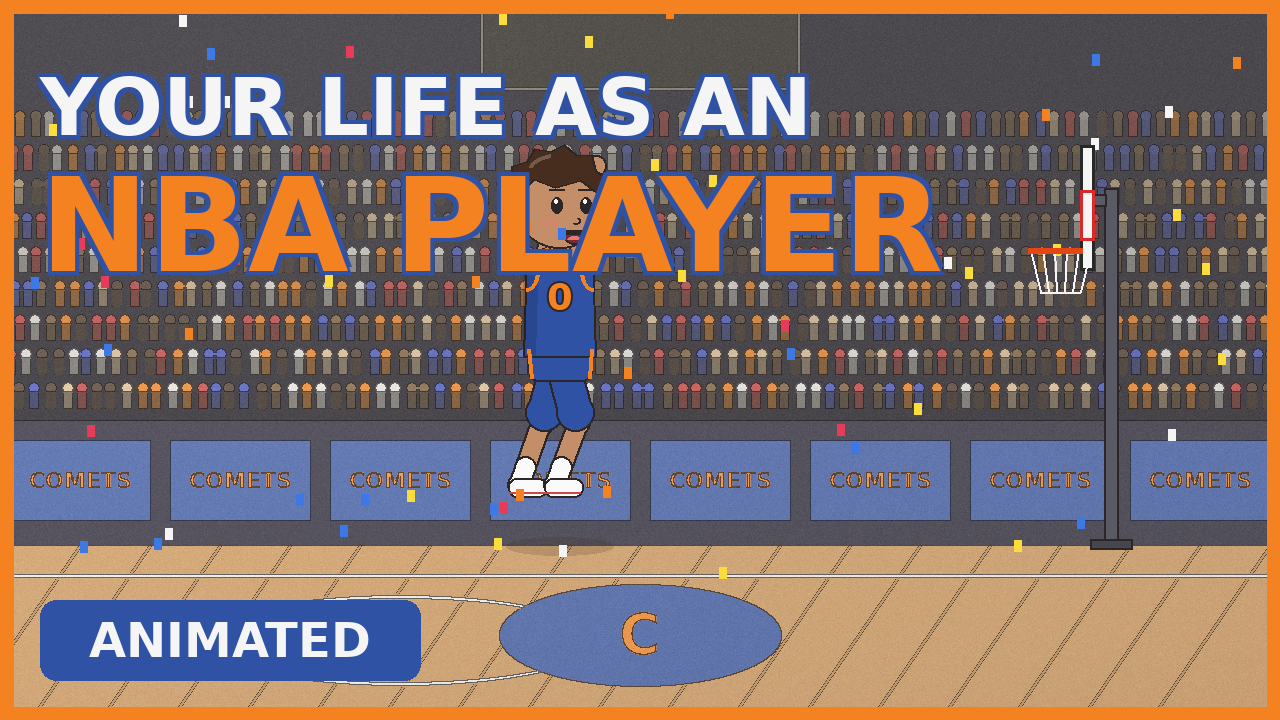
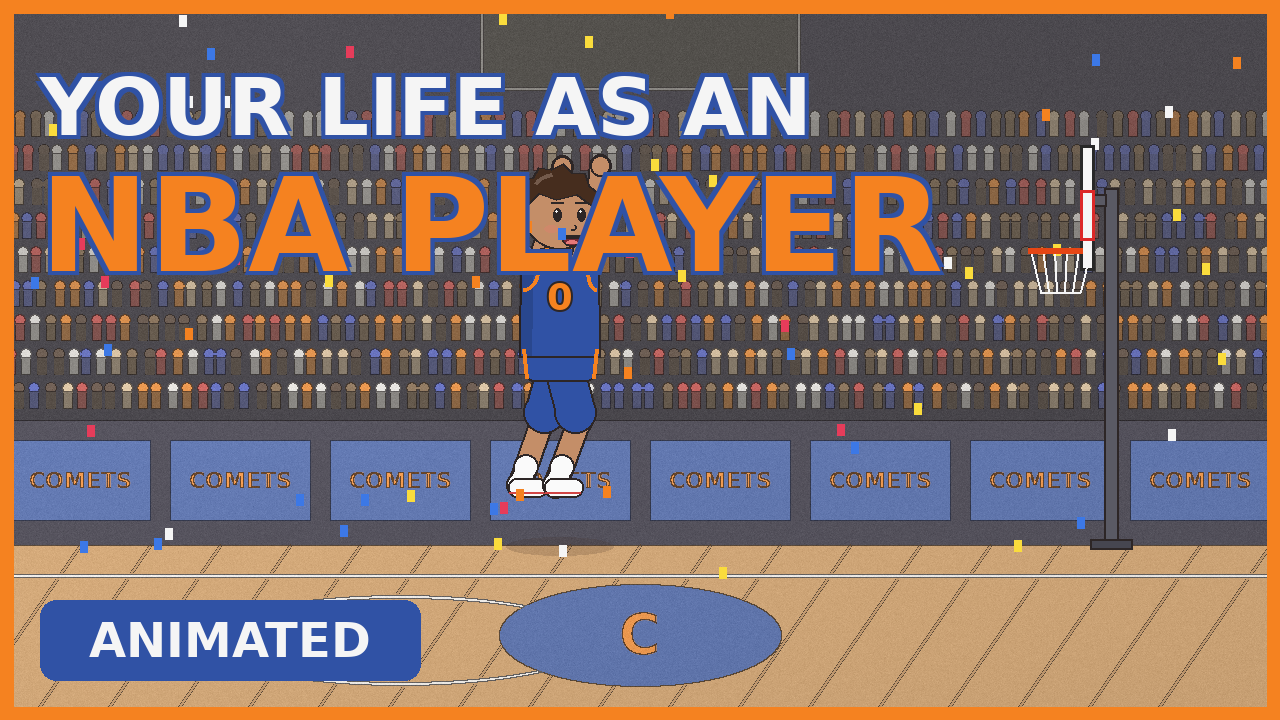
Tween between actions and rebalance head/body proportions
Claude-Session: https://claude.ai/code/session_01RuXReFvzsoakQSHGf4Mz6m

Changed region(s): [[0.4062, 0.3667, 0.4688, 0.6722], [0.4062, 0.1833, 0.5, 0.3361]]

diff --git a/nba-life-video/render.py b/nba-life-video/render.py
@@ -3,6 +3,7 @@
 Usage: python3 render.py [out_dir]
 Requires: espeak-ng + mbrola-us2, ffmpeg, Pillow, numpy.
 """
+import inspect
 import math
 import os
 import random
@@ -151,7 +152,38 @@ def hair_shape(d, hx, hy, r, s, f, color):
     d.polygon(pts, fill=color, outline=INK, width=2)
 
 
-def person(d, x, hip_y, s=1.0, outfit="comets", pose=None, facing=1, mouth=0.0,
+POSE_DEFAULT = dict(fu=15, ff=35, bu=-10, bf=-5, ft=5, fs=0, bt=-5, bs=0)
+TWEEN = None  # set by render_scene while blending one action into the next
+TWEEN_TIME = 0.7
+
+
+def person(d, *args, **kwargs):
+    """Draws a person; while TWEEN is active the first (main) person is blended between two actions."""
+    global TWEEN
+    tw = TWEEN
+    if tw is None or not tw["active"]:
+        return draw_person(d, *args, **kwargs)
+    tw["active"] = False
+    p = inspect.signature(draw_person).bind(d, *args, **kwargs)
+    p.apply_defaults()
+    p = dict(p.arguments)
+    pose = dict(POSE_DEFAULT)
+    pose.update(p["pose"] or {})
+    p["pose"] = pose
+    if tw["mode"] == "record":
+        tw["rec"] = p
+        return draw_person(**p)
+    a, k = tw["rec"], tw["k"]
+    if a is not None:
+        for key in ("x", "hip_y", "head_drop"):
+            p[key] = lerp(a[key], p[key], k)
+        p["pose"] = {n: lerp(a["pose"][n], pose[n], k) for n in pose}
+        if k < 0.5:
+            p["facing"] = a["facing"]
+    return draw_person(**p)
+
+
+def draw_person(d, x, hip_y, s=1.0, outfit="comets", pose=None, facing=1, mouth=0.0,
            mood="happy", eyes_closed=False, head_drop=0.0, skin=SKIN, hair=HAIR, long_hair=False):
     """Storybook-style cartoon person. Angles: 0 = straight down, positive = toward facing."""
     p = dict(fu=15, ff=35, bu=-10, bf=-5, ft=5, fs=0, bt=-5, bs=0)
@@ -161,13 +193,13 @@ def person(d, x, hip_y, s=1.0, outfit="comets", pose=None, facing=1, mouth=0.0,
     f = facing
     hip = (x, hip_y)
     sh = (x, hip_y - 68 * s)
-    lw = 15 * s
+    lw = 17 * s
     long_sleeves = outfit in ("suit", "agent", "hoodie", "gown", "mom")
     long_pants = outfit not in ("kid", "hs", "college", "comets", "train")
     k = limb(hip, p["bt"], 48 * s, f); a = limb(k, p["bs"], 46 * s, f)
-    e = limb((x - f * 12 * s, sh[1] + 4 * s), p["bu"], 35 * s, f); h_back = limb(e, p["bf"], 33 * s, f)
+    e = limb((x - f * 15 * s, sh[1] + 4 * s), p["bu"], 35 * s, f); h_back = limb(e, p["bf"], 33 * s, f)
     k2 = limb(hip, p["ft"], 48 * s, f); a2 = limb(k2, p["fs"], 46 * s, f)
-    e2 = limb((x + f * 12 * s, sh[1] + 4 * s), p["fu"], 35 * s, f); hand = limb(e2, p["ff"], 33 * s, f)
+    e2 = limb((x + f * 15 * s, sh[1] + 4 * s), p["fu"], 35 * s, f); hand = limb(e2, p["ff"], 33 * s, f)
     lift = max(0.0, GROUND - max(a[1], a2[1]) - 6 * s)
     sw = 46 * s * max(0.35, 1 - lift / 260)
     d.ellipse([x - sw, GROUND - 5 * s, x + sw, GROUND + 7 * s], fill=(60, 40, 30, 45))
@@ -186,25 +218,25 @@ def person(d, x, hip_y, s=1.0, outfit="comets", pose=None, facing=1, mouth=0.0,
         d.ellipse([hd[0] - 7 * s, hd[1] - 7 * s, hd[0] + 7 * s, hd[1] + 7 * s], fill=skin, outline=INK, width=2)
 
     leg(hip, k, a); shoe(d, a, s, f)
-    arm((x - f * 12 * s, sh[1] + 4 * s), e, h_back)
+    arm((x - f * 15 * s, sh[1] + 4 * s), e, h_back)
     leg(hip, k2, a2); shoe(d, a2, s, f)
     # torso
-    d.rounded_rectangle([x - 22 * s, hip_y - 12 * s, x + 22 * s, hip_y + 18 * s], 7 * s, fill=shorts, outline=INK, width=2)
+    d.rounded_rectangle([x - 25 * s, hip_y - 12 * s, x + 25 * s, hip_y + 18 * s], 7 * s, fill=shorts, outline=INK, width=2)
     top = sh[1] - 6 * s
-    body = [(x - 23 * s, top + 4 * s), (x - 10 * s, top), (x + 10 * s, top), (x + 23 * s, top + 4 * s),
-            (x + 25 * s, hip_y + 2 * s), (x - 25 * s, hip_y + 2 * s)]
+    body = [(x - 27 * s, top + 4 * s), (x - 11 * s, top), (x + 11 * s, top), (x + 27 * s, top + 4 * s),
+            (x + 28 * s, hip_y + 2 * s), (x - 28 * s, hip_y + 2 * s)]
     d.polygon(body, fill=shirt, outline=INK, width=2)
-    bx0 = x - f * 25 * s
+    bx0 = x - f * 28 * s
     d.polygon([(bx0, top + 4 * s), (bx0 + f * 10 * s, top + 2 * s), (bx0 + f * 8 * s, hip_y), (bx0, hip_y)], fill=(0, 0, 0, 35))
     if not long_sleeves:
         trim = numc or WHITE
         d.polygon([(x - 9 * s, top), (x + 9 * s, top), (x, top + 14 * s)], fill=skin, outline=INK, width=2)
         d.line([(x - 9 * s, top), (x, top + 14 * s), (x + 9 * s, top)], fill=trim, width=max(2, int(3 * s)))
         for sd in (-1, 1):
-            d.arc([x + sd * 23 * s - 9 * s, top + 2 * s, x + sd * 23 * s + 9 * s, top + 30 * s],
+            d.arc([x + sd * 27 * s - 9 * s, top + 2 * s, x + sd * 23 * s + 9 * s, top + 30 * s],
                   90 if sd > 0 else -90, 270 if sd > 0 else 90, fill=trim, width=max(2, int(3 * s)))
-        d.line([x - 22 * s, hip_y - 4 * s, x - 20 * s, hip_y + 16 * s], fill=trim, width=max(2, int(3 * s)))
-        d.line([x + 22 * s, hip_y - 4 * s, x + 20 * s, hip_y + 16 * s], fill=trim, width=max(2, int(3 * s)))
+        d.line([x - 25 * s, hip_y - 4 * s, x - 23 * s, hip_y + 16 * s], fill=trim, width=max(2, int(3 * s)))
+        d.line([x + 25 * s, hip_y - 4 * s, x + 23 * s, hip_y + 16 * s], fill=trim, width=max(2, int(3 * s)))
     if outfit in ("suit", "agent"):
         d.polygon([(x - 8 * s, top), (x + 8 * s, top), (x, top + 30 * s)], fill=WHITE, outline=INK, width=1)
         d.polygon([(x - 3 * s, top + 4 * s), (x + 3 * s, top + 4 * s), (x + 4 * s, top + 24 * s), (x, top + 30 * s),
@@ -214,11 +246,11 @@ def person(d, x, hip_y, s=1.0, outfit="comets", pose=None, facing=1, mouth=0.0,
     if num:
         d.text((x, top + 34 * s), num, font=font(max(10, int(26 * s))), fill=numc, anchor="mm",
                stroke_width=max(1, int(2 * s)), stroke_fill=INK if numc != WHITE else (80, 80, 90))
-    arm((x + f * 12 * s, sh[1] + 4 * s), e2, hand)
+    arm((x + f * 15 * s, sh[1] + 4 * s), e2, hand)
     # head
     hx = x + f * head_drop * 8 * s
-    hy = sh[1] - 38 * s + head_drop * 10 * s
-    r = 32 * s
+    hy = sh[1] - 31 * s + head_drop * 10 * s
+    r = 26 * s
     if long_hair:
         d.ellipse([hx - r * 1.12, hy - r * 1.1, hx + r * 1.12, hy + r * 0.6], fill=hair, outline=INK, width=2)
         for sd in (-1, 1):
@@ -234,41 +266,42 @@ def person(d, x, hip_y, s=1.0, outfit="comets", pose=None, facing=1, mouth=0.0,
         hair_shape(d, hx, hy, r, s, f, hair)
     hl = tuple(min(255, c + 45) for c in hair)
     d.arc([hx - r * 0.7, hy - r * 1.0, hx + r * 0.5, hy - r * 0.2], 200, 260, fill=hl, width=max(2, int(3 * s)))
-    ex = hx + f * 8 * s
-    ey = hy + 3 * s + head_drop * 2 * s
+    fs_ = s * 0.82  # facial features scale with the head
+    ex = hx + f * 8 * fs_
+    ey = hy + 3 * fs_ + head_drop * 2 * fs_
     # cheeks
-    for ox in (-15 * s, 15 * s):
-        d.ellipse([ex + ox - 6 * s, ey + 9 * s, ex + ox + 6 * s, ey + 15 * s], fill=(235, 120, 110, 70))
-    for ox in (-10 * s, 10 * s):
+    for ox in (-15 * fs_, 15 * fs_):
+        d.ellipse([ex + ox - 6 * fs_, ey + 9 * fs_, ex + ox + 6 * fs_, ey + 15 * fs_], fill=(235, 120, 110, 70))
+    for ox in (-10 * fs_, 10 * fs_):
         cx = ex + ox
         if eyes_closed:
-            d.arc([cx - 5 * s, ey - 3 * s, cx + 5 * s, ey + 5 * s], 20, 160, fill=INK, width=max(2, int(2 * s)))
+            d.arc([cx - 5 * fs_, ey - 3 * fs_, cx + 5 * fs_, ey + 5 * fs_], 20, 160, fill=INK, width=max(2, int(2 * fs_)))
         else:
-            d.ellipse([cx - 3.6 * s, ey - 5.5 * s, cx + 3.6 * s, ey + 5.5 * s], fill=INK)
-            d.ellipse([cx - 2 * s, ey - 4.2 * s, cx + 0.2 * s, ey - 1.8 * s], fill=WHITE)
+            d.ellipse([cx - 3.6 * fs_, ey - 5.5 * fs_, cx + 3.6 * fs_, ey + 5.5 * fs_], fill=INK)
+            d.ellipse([cx - 2 * fs_, ey - 4.2 * fs_, cx + 0.2 * fs_, ey - 1.8 * fs_], fill=WHITE)
         # brows: sad raises the inner end (the end nearer the middle of the face)
-        y_l = y_r = ey - 11 * s
+        y_l = y_r = ey - 11 * fs_
         if mood == "sad":
             if ox < 0:
-                y_r -= 3.5 * s
+                y_r -= 3.5 * fs_
             else:
-                y_l -= 3.5 * s
-        d.line([cx - 5 * s, y_l, cx + 5 * s, y_r], fill=INK, width=max(2, int(2 * s)))
-    nx, ny = ex + f * 3 * s, ey + 8 * s
-    d.arc([nx - 3 * s, ny, nx + 3 * s, ny + 5 * s], 300 if f > 0 else 60, 120 if f > 0 else 240,
-          fill=INK, width=max(1, int(2 * s)))
-    mx, my = ex + f * 2 * s, hy + 24 * s
+                y_l -= 3.5 * fs_
+        d.line([cx - 5 * fs_, y_l, cx + 5 * fs_, y_r], fill=INK, width=max(2, int(2 * fs_)))
+    nx, ny = ex + f * 3 * fs_, ey + 8 * fs_
+    d.arc([nx - 3 * fs_, ny, nx + 3 * fs_, ny + 5 * fs_], 300 if f > 0 else 60, 120 if f > 0 else 240,
+          fill=INK, width=max(1, int(2 * fs_)))
+    mx, my = ex + f * 2 * fs_, hy + 24 * fs_
     if mouth > 0.12:
-        mh = (5 + 7 * min(1.0, mouth)) * s
-        mw = (7 + 2 * min(1.0, mouth)) * s
+        mh = (5 + 7 * min(1.0, mouth)) * fs_
+        mw = (7 + 2 * min(1.0, mouth)) * fs_
         box = [mx - mw, my - mh * 0.45, mx + mw, my + mh * 0.55]
         d.chord([box[0], box[1] - mh * 0.55, box[2], box[3]], 0, 180, fill=(120, 40, 50), outline=INK, width=2)
         d.chord([mx - mw * 0.55, my + mh * 0.05, mx + mw * 0.55, my + mh * 0.5], 180, 360, fill=(230, 120, 120))
         d.line([box[0] + 2, box[1] + 1, box[2] - 2, box[1] + 1], fill=INK, width=2)
     elif mood == "sad":
-        d.arc([mx - 6 * s, my - 1 * s, mx + 6 * s, my + 7 * s], 200, 340, fill=INK, width=max(2, int(2 * s)))
+        d.arc([mx - 6 * fs_, my - 1 * fs_, mx + 6 * fs_, my + 7 * fs_], 200, 340, fill=INK, width=max(2, int(2 * fs_)))
     else:
-        d.arc([mx - 7 * s, my - 7 * s, mx + 7 * s, my + 3 * s], 25, 155, fill=INK, width=max(2, int(2 * s)))
+        d.arc([mx - 7 * fs_, my - 7 * fs_, mx + 7 * fs_, my + 3 * fs_], 25, 155, fill=INK, width=max(2, int(2 * fs_)))
     return dict(hand=hand, back_hand=h_back, head=(hx, hy), sh=sh)
 
 
@@ -1080,6 +1113,12 @@ def render_scene(job):
            "-pix_fmt", "yuv420p", path]
     proc = subprocess.Popen(cmd, stdin=subprocess.PIPE)
     actions = scene["actions"]
+    # start time of each run of identical actions, so every move begins at its own frame 0
+    line_act = [actions[i % len(actions)] for i in range(len(cues))]
+    starts = [0.0] * len(cues)
+    for i in range(1, len(cues)):
+        starts[i] = starts[i - 1] if line_act[i] == line_act[i - 1] else cues[i][0] - LINE_GAP * 0.5
+    global TWEEN
     for fi in range(nframes):
         t = fi / FPS
         line_i = 0
@@ -1095,7 +1134,20 @@ def render_scene(job):
         draw_dynamic_bg(d, bg, t, idx, look)
         extras(d, bg, idx, t, look, action)
         mouth = min(1.0, env[min(fi, len(env) - 1)] * 6)
-        act(d, action, t, look, bg, mouth, idx)
+        seg0 = starts[line_i]
+        tl = t - seg0
+        j = next((i for i in range(line_i, -1, -1) if starts[i] < seg0), None) if seg0 > 0 else None
+        prev = line_act[j] if j is not None else None
+        no_body = {"sleep"} if bg != "plane" else set()
+        if prev and tl < TWEEN_TIME and prev not in no_body and action not in no_body:
+            scratch = img.copy()
+            TWEEN = dict(mode="record", active=True, rec=None)
+            act(ImageDraw.Draw(scratch, "RGBA"), prev, t - starts[j], look, bg, mouth, idx)
+            TWEEN = dict(mode="blend", active=True, rec=TWEEN["rec"], k=ease(tl / TWEEN_TIME))
+            act(d, action, tl, look, bg, mouth, idx)
+            TWEEN = None
+        else:
+            act(d, action, tl, look, bg, mouth, idx)
         foreground(d, bg)
         img = camera(img, t, nframes / FPS, idx)
         d = ImageDraw.Draw(img, "RGBA")
